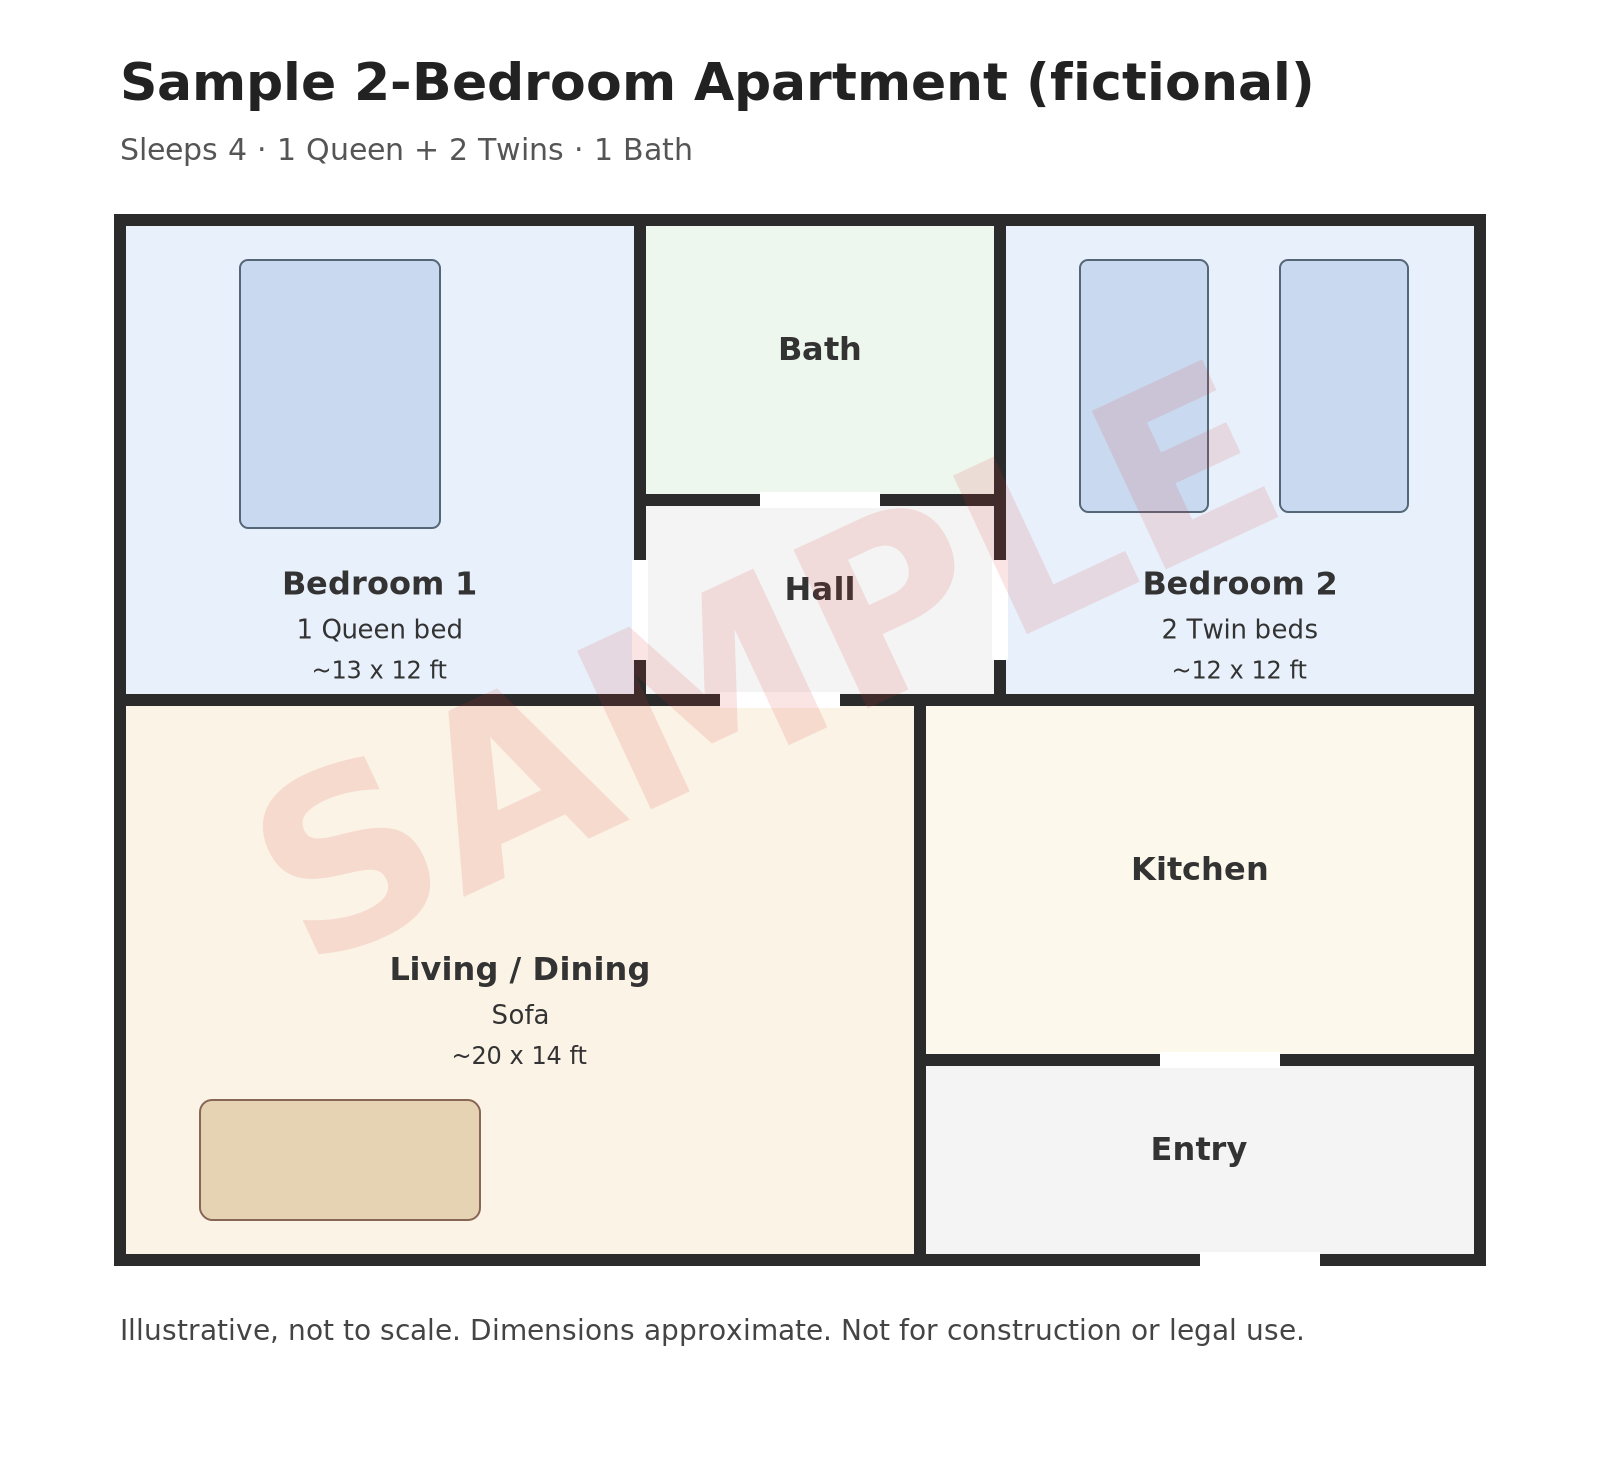
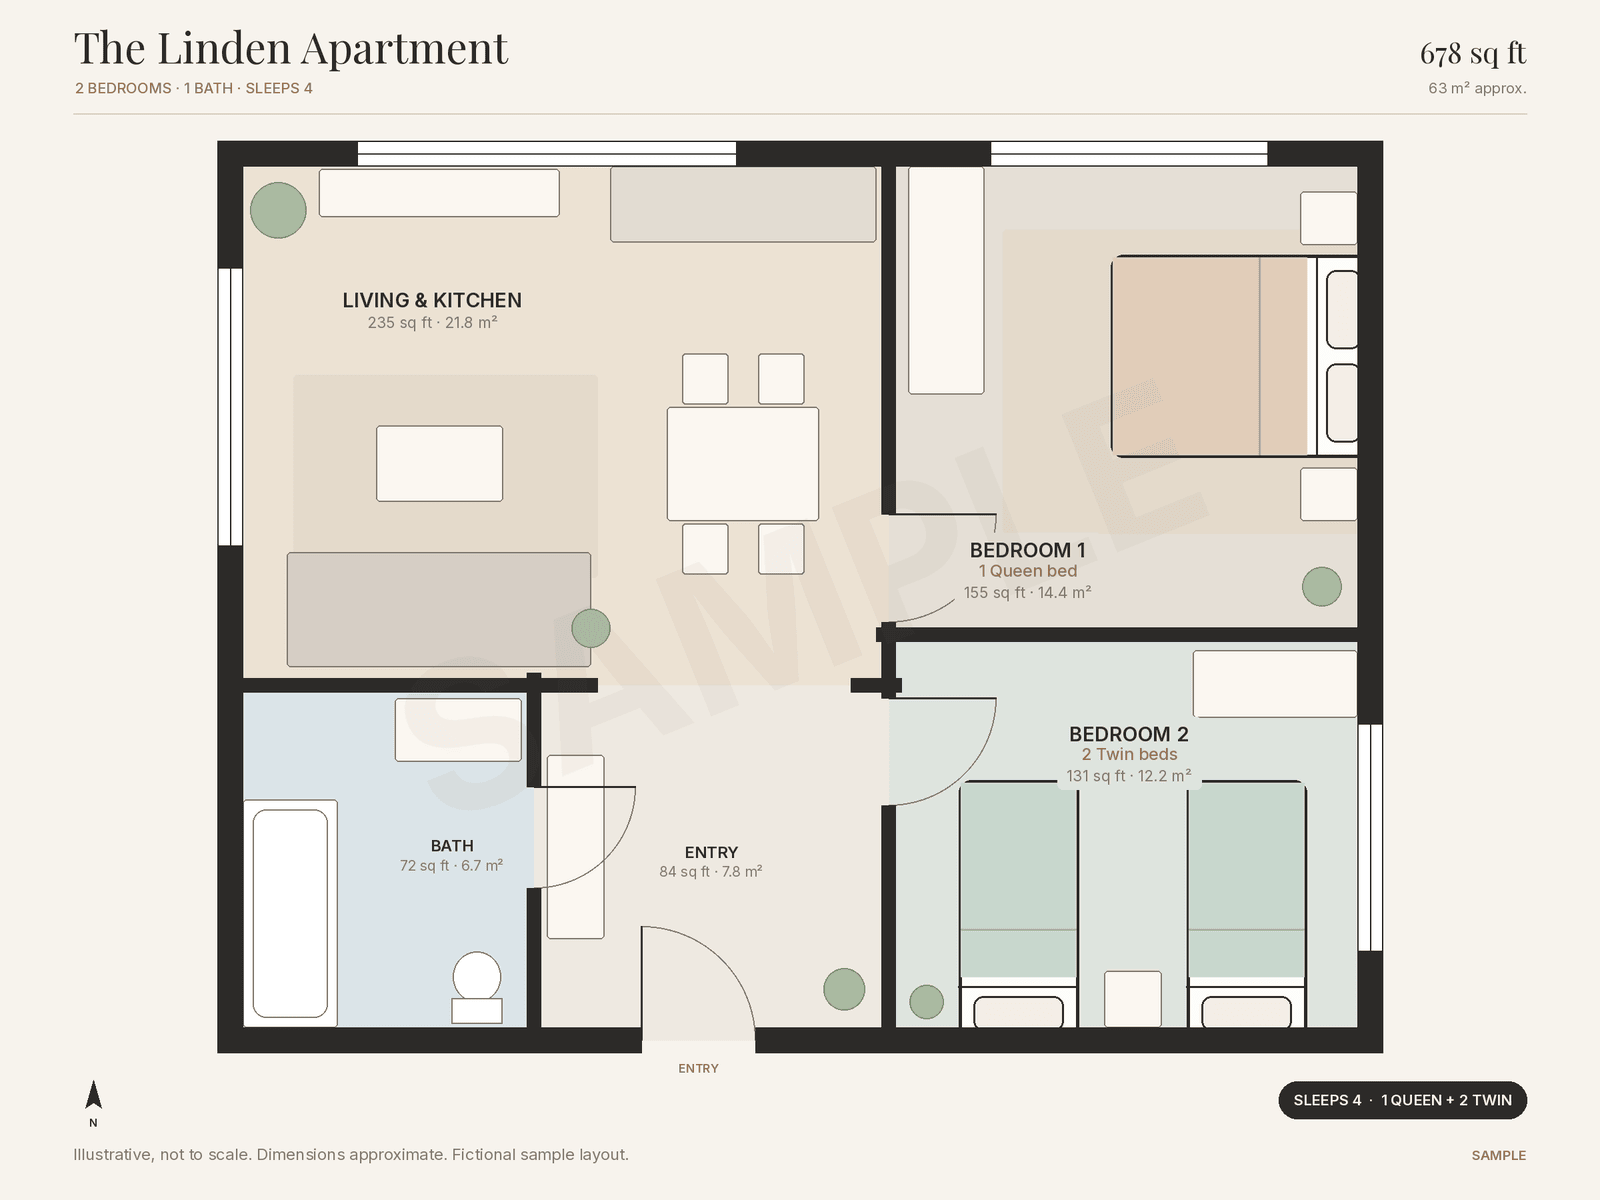
Upgrade floor plan sample: Blender 3D render, refined 2D plan, before/after tile

diff --git a/floor-plan-sample/index.html b/floor-plan-sample/index.html
@@ -3,13 +3,13 @@
 <title>Sample floor plans for vacation rental listings</title>
 <meta name="robots" content="noindex">
 <style>
-body{margin:0;font-family:Arial,Helvetica,sans-serif;color:#222;background:#f6f6f6;line-height:1.5}
+body{margin:0;font-family:Inter,"Helvetica Neue",Arial,sans-serif;color:#2c2a28;background:#f7f3ed;line-height:1.55}
 main{max-width:860px;margin:0 auto;background:#fff;padding:24px}
-h1{font-size:1.6rem;margin:.2em 0}
-figure{margin:24px 0;border:1px solid #ddd;padding:8px;position:relative}
+h1{font-family:"Playfair Display",Georgia,serif;font-weight:400;font-size:2rem;margin:.2em 0}
+figure{margin:28px 0;border:1px solid #e6ded2;padding:0;background:#f7f3ed;border-radius:6px;overflow:hidden}
 figure img{width:100%;height:auto;display:block}
 .tag{position:absolute;bottom:34px;right:14px;background:#c33;color:#fff;font-weight:bold;padding:2px 10px;font-size:.85rem}
-figcaption{font-size:.85rem;color:#666;padding-top:6px}
+figcaption{font-size:.85rem;color:#80786e;padding:8px 12px;background:#fff}
 table{border-collapse:collapse;width:100%;margin:12px 0}
 td{border:1px solid #ddd;padding:10px}
 .note{font-size:.9rem;color:#555;background:#fafafa;border-left:3px solid #ccc;padding:8px 12px}
@@ -20,8 +20,9 @@ footer{font-size:.8rem;color:#777;border-top:1px solid #eee;margin-top:28px;padd
 <table><tr><td><strong>2D floor plan</strong></td><td align="right"><strong>$19</strong> per unit</td></tr>
 <tr><td><strong>2D + 3D view</strong></td><td align="right"><strong>$49</strong> per unit</td></tr></table>
 <p><strong>How it works:</strong> 1. Send your sketch, scan or plan. 2. Get a draft, with one revision included. 3. Receive PNG and PDF files sized for listing galleries and your website, and pay once you have them.</p>
-<figure><span class="tag">SAMPLE</span><img src="sample-2d.png" alt="Sample 2D floor plan of a fictional 2-bedroom apartment"><figcaption>Sample, 2D plan (fictional apartment)</figcaption></figure>
-<figure><span class="tag">SAMPLE</span><img src="sample-3d-isometric.png" alt="Sample 3D isometric view of the same fictional apartment"><figcaption>Sample, 3D view (fictional apartment)</figcaption></figure>
+<figure><img src="sample-3d-isometric.png" width="1600" height="1200" alt="Sample 3D bird's-eye view of a fictional 2-bedroom apartment that sleeps 4, marked SAMPLE"><figcaption>Sample 3D view ($49 package). Rendered in Blender from the floor plan, fictional apartment.</figcaption></figure>
+<figure><img src="sample-2d.png" width="1600" height="1200" alt="Sample 2D floor plan with room names, areas and bed labels: 1 Queen and 2 Twin beds, sleeps 4"><figcaption>Sample 2D plan ($19): room names, area per room in sq ft and m², every bed labeled.</figcaption></figure>
+<figure><img src="sample-before-after.png" width="1600" height="733" alt="Before and after: a hand-drawn phone sketch turned into a finished floor plan"><figcaption>From a rough phone sketch to a listing-ready plan.</figcaption></figure>
 <p class="note">Illustrative, not to scale. Dimensions approximate. Not for construction or legal use. Bed and room count must match your listing. No platform logos are used.</p>
 <p>Interested? Email <a href="mailto:95ppp619@gmail.com">95ppp619@gmail.com</a>.</p>
 <footer>Impressum: Philipp Primisser, Lazarettgasse 7, 1090 Wien · 95ppp619@gmail.com</footer>
